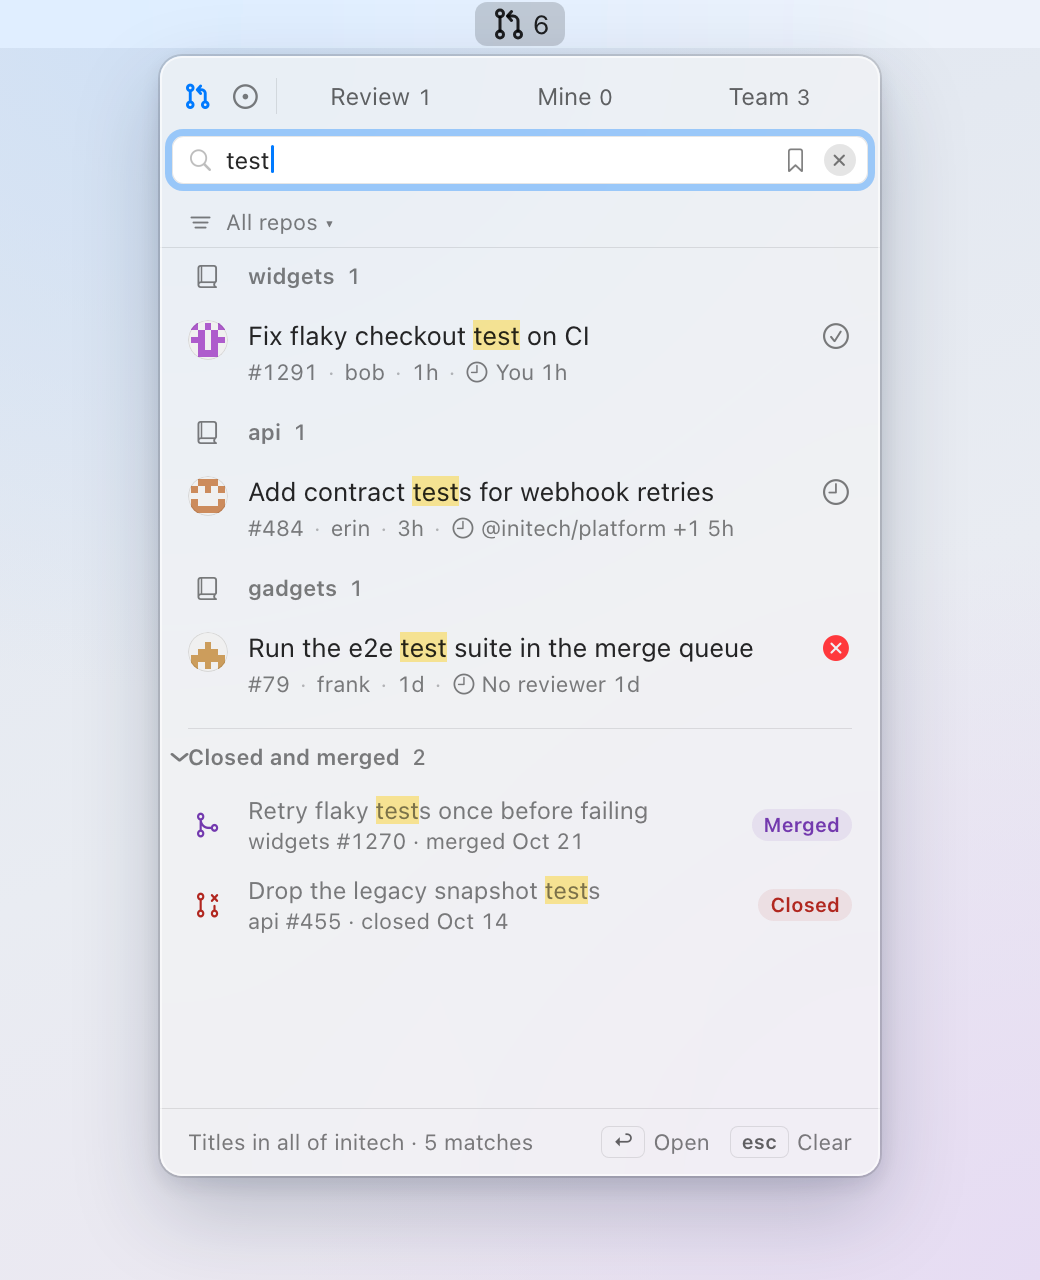
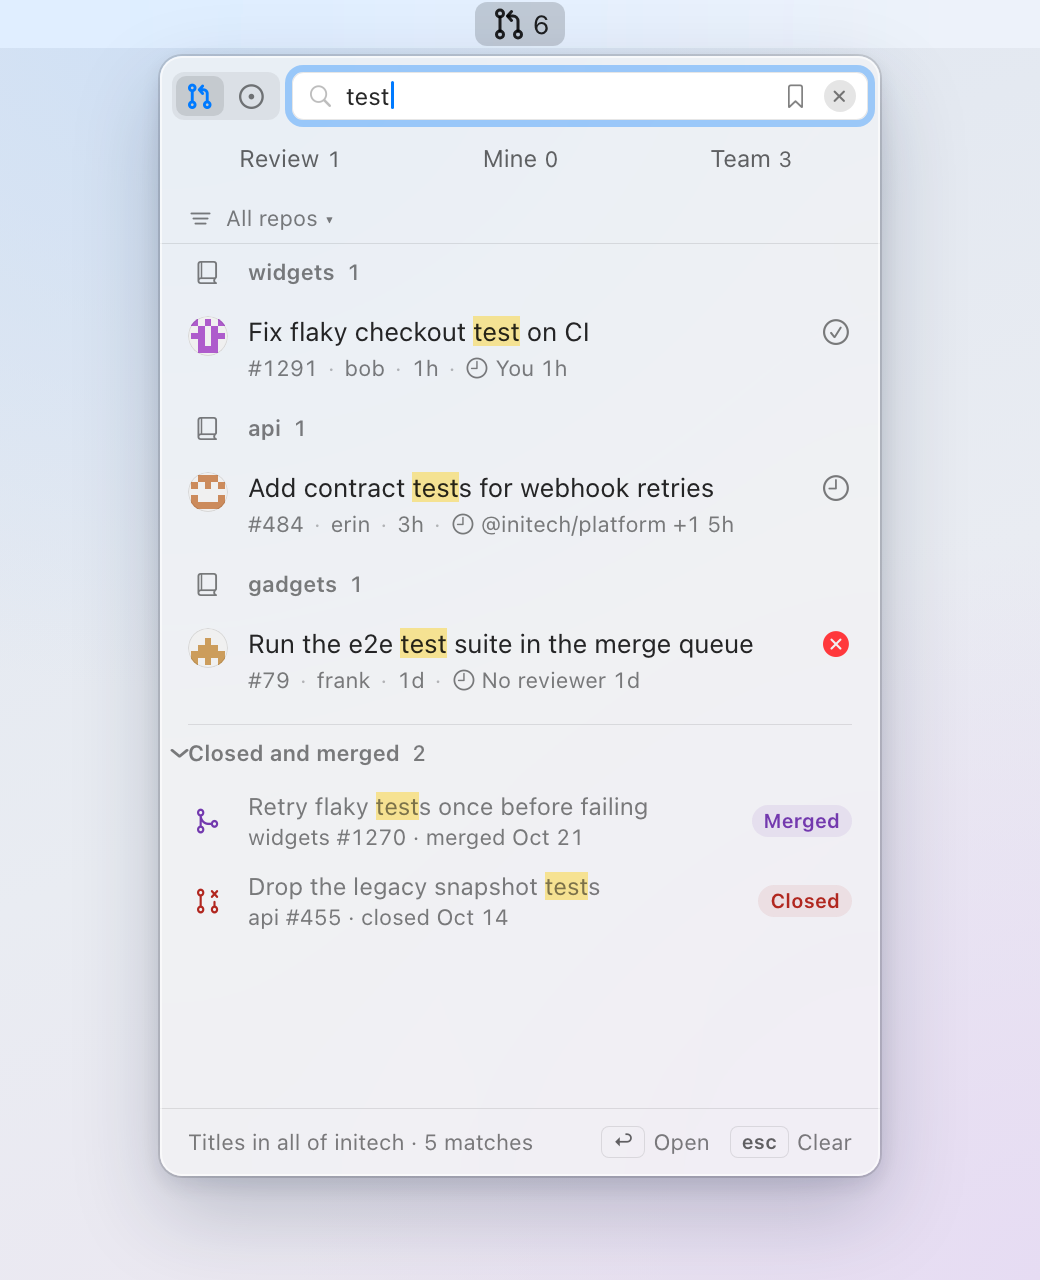
Move the mode switch into the search row (#45)
* Move the mode switch into the search row

The Pull Requests / Issues switch now sits on one track at the left of
the search field; the mode's tabs move to the row under it.

* Show the mode switch in the search row in the README stills

* Open the save-search row under the field, above the tabs

Moving the tabs under the search row had left the save row below them,
away from the bookmark that opens it. HeaderView now takes what opens
under the field. The spec records this and the track's hover fill.

---------

diff --git a/PullBull/Popover/ModeToggle.swift b/PullBull/Popover/ModeToggle.swift
@@ -1,11 +1,11 @@
 import SwiftUI
 import PullBullKit
 
-/// The Pull Requests / Issues switch at the start of the header: two free-standing icon buttons, the
-/// active one in the accent colour on an accent-tinted chip, so it reads without hue too (a Graphite
-/// accent, Differentiate Without Colour). It has no shared track, so it doesn't read as part of the tab
-/// bar; a hairline divider closes it off. The other mode's glyph carries a dot while it has something new
-/// for me (`ModeNews`).
+/// The Pull Requests / Issues switch at the start of the search row: two icon segments on one track, as
+/// tall as the field beside it, the active one in the accent colour on a tinted chip, so it reads without
+/// hue too (a Graphite accent, Differentiate Without Colour). The track groups the two icons and sets them
+/// apart from the field. The other mode's glyph carries a dot while it has something new for me
+/// (`ModeNews`).
 struct ModeToggle: View {
     @Bindable var model: AppModel
     /// Switches to the mode, as ⌘1 / ⌘2 do: a query in the field stays, an empty open field closes.
@@ -19,11 +19,9 @@ struct ModeToggle: View {
                     news: model.mode == mode ? nil : model.modeNews.note(mode)
                 ) { select(mode) }
             }
-            Hairline(axis: .vertical)
-                .frame(height: 18)
-                .padding(.leading, 2)
-                .accessibilityHidden(true)
         }
+        .padding(2)
+        .background(RoundedRectangle(cornerRadius: 6).fill(Palette.fill))
         .fixedSize()
         .accessibilityElement(children: .contain)
         .accessibilityLabel("Mode")
@@ -39,15 +37,15 @@ private struct ModeButton: View {
     @State private var hovering = false
     @Environment(\.colorSchemeContrast) private var contrast
 
-    /// The chip matches the tab bar's thumb: 22pt tall, the same corner radius.
-    private static let chip = RoundedRectangle(cornerRadius: 6)
+    /// 20pt tall inside the 24pt track; its radius nests inside the track's 6.
+    private static let chip = RoundedRectangle(cornerRadius: 5)
 
     var body: some View {
         Button(action: action) {
             Image(symbol: mode.symbol)
                 .font(.system(size: 13, weight: selected ? .semibold : .regular))
                 .foregroundStyle(selected ? AnyShapeStyle(Color.accentColor) : AnyShapeStyle(.secondary))
-                .frame(width: 24, height: 22)
+                .frame(width: 24, height: 20)
                 .background(Self.chip.fill(fill))
                 .overlay {
                     // Increase Contrast edges the chosen chip too.
@@ -74,7 +72,8 @@ private struct ModeButton: View {
 
     private var fill: Color {
         if selected { return Palette.selection }
-        return hovering ? Palette.fill : .clear
+        // The track is `Palette.fill`, so a hover takes the stronger fill to show on it.
+        return hovering ? Palette.strongFill : .clear
     }
 }
 

diff --git a/PullBull/Popover/HeaderView.swift b/PullBull/Popover/HeaderView.swift
@@ -2,9 +2,9 @@ import AppKit
 import SwiftUI
 import PullBullKit
 
-/// The header: the mode switch, tabs and settings, and under them the search field. Both rows stay put
-/// while searching; only the list below changes.
-struct HeaderView: View {
+/// The header: the mode switch and the search field in one row, the mode's tabs under them. Both rows
+/// stay put while searching; only the list below changes.
+struct HeaderView<UnderField: View>: View {
     let model: AppModel
     /// Results are on screen (`Route.search`).
     let searching: Bool
@@ -21,30 +21,41 @@ struct HeaderView: View {
     let onSwitchMode: (PopoverMode) -> Void
     /// The bookmark in the field: opens the save row under it.
     let onSaveSearch: () -> Void
+    /// What opens right under the field, above the tabs: the save row, next to the bookmark that opened it.
+    @ViewBuilder let underField: () -> UnderField
 
     var body: some View {
         VStack(spacing: 0) {
-            titleRow
             searchRow
+            underField()
+            tabRow
         }
     }
 
-    /// The mode switch, then the mode's tabs filling the width. While results are on screen
-    /// the tabs narrow them instead of showing their lists.
-    private var titleRow: some View {
-        HStack(spacing: 4) {
-            ModeToggle(model: model, select: onSwitchMode)
-            TabBar(model: model, searching: searching) {
-                if searchOpen { onCancelSearch() }
-            }
-            .frame(maxWidth: .infinity)
+    /// The mode's tabs filling the width. While results are on screen the tabs narrow them instead of
+    /// showing their lists.
+    private var tabRow: some View {
+        TabBar(model: model, searching: searching) {
+            if searchOpen { onCancelSearch() }
         }
-        .padding(.leading, 8)
-        .padding(.trailing, 8)
-        .frame(height: 40)
+        .frame(maxWidth: .infinity)
+        .padding(.horizontal, 8)
+        .padding(.bottom, 4)
     }
 
+    /// The mode switch, then the search field filling the rest of the row.
     private var searchRow: some View {
+        HStack(spacing: 6) {
+            ModeToggle(model: model, select: onSwitchMode)
+            searchField
+                .frame(maxWidth: .infinity)
+        }
+        .padding(.horizontal, Metrics.rowInset)
+        .padding(.top, 8)
+        .padding(.bottom, 6)
+    }
+
+    private var searchField: some View {
         HStack(spacing: 6) {
             Image(systemName: "magnifyingglass")
                 .font(.system(size: 11))
@@ -106,8 +117,6 @@ struct HeaderView: View {
                 .strokeBorder(Color.accentColor.opacity(0.35), lineWidth: 3.5)
                 .padding(-3.5)
                 .opacity(fieldFocused.wrappedValue ? 1 : 0))
-        .padding(.horizontal, Metrics.rowInset)
-        .padding(.bottom, 6)
     }
 
     /// Search follows the mode; the field's label reads the same.

diff --git a/docs/media/src/components.js b/docs/media/src/components.js
@@ -75,7 +75,7 @@
       const selected = mode === m;
       return `<span class="mode-button${selected ? " selected" : ""}">${sym(symbol, 13, selected ? "semibold" : "regular")}</span>`;
     };
-    return `<div class="hstack mode-toggle">${btn("pullRequests", "pullbull.pullrequest")}${btn("issues", "pullbull.issue")}<span class="hairline-v"></span></div>`;
+    return `<div class="hstack mode-toggle">${btn("pullRequests", "pullbull.pullrequest")}${btn("issues", "pullbull.issue")}</div>`;
   }
 
   function tabBar(tabs, selectedId) {
@@ -100,12 +100,13 @@
       ? `<span class="c-secondary" style="width:16px;height:16px;display:flex;align-items:center;justify-content:center">${sym("bookmark", 11)}</span>` +
         `<span class="c-secondary" style="width:16px;height:16px;border-radius:50%;background:var(--strong-fill);display:flex;align-items:center;justify-content:center">${sym("xmark", 7, "bold")}</span>`
       : (search && search.focused ? "" : `<span class="shortcut f11">⌘F</span>`);
-    return `<div class="search-row"><div class="hstack search-field${search && search.focused ? " focused" : ""}">` +
-      `<span class="c-tertiary hstack">${sym("magnifyingglass", 11)}</span>${text}${trailing}</div></div>`;
+    return `<div class="hstack search-field${search && search.focused ? " focused" : ""}">` +
+      `<span class="c-tertiary hstack">${sym("magnifyingglass", 11)}</span>${text}${trailing}</div>`;
   }
 
   function header(d) {
-    return `<div class="hstack title-row">${modeToggle(d.mode)}${tabBar(d.tabs, d.selectedTab)}</div>${searchField(d.search, d.mode)}`;
+    return `<div class="search-row">${modeToggle(d.mode)}${searchField(d.search, d.mode)}</div>` +
+      `<div class="tab-row">${tabBar(d.tabs, d.selectedTab)}</div>`;
   }
 
   /** FilterBar: "▦ Roadmap ▾ · ▤ All repos ▾" on the Board tab, "▤ All repos ▾" elsewhere. */

diff --git a/docs/media/src/popover.css b/docs/media/src/popover.css
@@ -222,13 +222,13 @@ body {
 
 /* ---------- Header (HeaderView) ---------- */
 
-.title-row { height: 40px; padding: 0 8px; gap: 4px; flex: none; }
+/* The mode's tabs, under the search row: inset 8, 4 below. */
+.tab-row { padding: 0 8px 4px; display: flex; flex: none; }
 
-/* ModeToggle: two 22×28 buttons, 2 apart, then a hairline 18 tall with 2 before it. */
-.mode-toggle { gap: 2px; flex: none; }
-.mode-button { width: 22px; height: 28px; display: flex; align-items: center; justify-content: center; color: var(--secondary); border-radius: 6px; }
-.mode-button.selected { color: var(--accent); }
-.mode-toggle .hairline-v { height: 18px; margin-left: 2px; }
+/* ModeToggle: two 24×20 segments, 2 apart, on a 24-tall track padded 2. */
+.mode-toggle { gap: 2px; flex: none; padding: 2px; border-radius: 6px; background: var(--fill); }
+.mode-button { width: 24px; height: 20px; display: flex; align-items: center; justify-content: center; color: var(--secondary); border-radius: 5px; }
+.mode-button.selected { color: var(--accent); background: var(--strong-fill); }
 
 /* TabBar: equal segments 2 apart, 22 tall, inside 2 pt of vertical padding. */
 .tab-bar { flex: 1 1 auto; padding: 2px 0; display: flex; gap: 2px; }
@@ -255,9 +255,11 @@ body {
 .segment .count { color: var(--secondary-text); }
 .segment.selected .count { color: var(--label); }
 
-/* Search field: 24 tall, inset 6 (Metrics.rowInset), 6 below. */
-.search-row { padding: 0 6px 6px; flex: none; }
+/* Search row: the mode switch, 6 apart from the field; 24 tall, inset 6 (Metrics.rowInset), 8 above, 6 below. */
+.search-row { padding: 8px 6px 6px; flex: none; display: flex; gap: 6px; align-items: center; }
 .search-field {
+  flex: 1 1 auto;
+  min-width: 0;
   position: relative;
   height: 24px;
   padding: 0 6px 0 8px;

diff --git a/PullBull/Popover/PopoverView.swift b/PullBull/Popover/PopoverView.swift
@@ -287,13 +287,17 @@ struct PopoverView: View {
             HeaderView(
                 model: model, searching: searchShown, searchOpen: searchOpen, fieldFocused: $fieldFocused,
                 ghostDrawn: $qualifierGhostDrawn, window: { [keyMonitor] in keyMonitor.window },
-                onCancelSearch: cancelSearch, onSwitchMode: switchMode(to:), onSaveSearch: openSaveRow)
-            if searchOpen, saveName != nil {
-                Hairline()
-                SaveSearchRow(
-                    name: Binding(get: { saveName ?? "" }, set: { saveName = $0 }), focused: $saveNameFocused,
-                    onSave: saveSearch, onCancel: closeSaveRow)
-                if filterRow != nil { Hairline() }
+                onCancelSearch: cancelSearch, onSwitchMode: switchMode(to:), onSaveSearch: openSaveRow
+            ) {
+                // The save row opens under the field, above the tabs, between two lines.
+                if searchOpen, saveName != nil {
+                    Hairline()
+                    SaveSearchRow(
+                        name: Binding(get: { saveName ?? "" }, set: { saveName = $0 }), focused: $saveNameFocused,
+                        onSave: saveSearch, onCancel: closeSaveRow)
+                    Hairline()
+                        .padding(.bottom, 4)
+                }
             }
             // One line between the header and the list: the filter row draws it when shown.
             if filterRow == nil { Hairline() }

diff --git a/docs/superpowers/specs/2026-11-03-sectioned-pr-list-design.md b/docs/superpowers/specs/2026-11-03-sectioned-pr-list-design.md
@@ -69,7 +69,10 @@ Mockups: https://claude.ai/artifact/EpgpsFBW6hyLMHocJFmdBC (2a is the chosen hea
   - the news dot on the other mode (`ModeNews`);
   - the help text and VoiceOver labels ("Pull requests ⌘1", "Issues ⌘2", plus the news note);
   - ⌘1 / ⌘2.
+- An unselected segment's hover takes `Palette.strongFill`. The track itself is `Palette.fill`, so the usual hover fill wouldn't show on it.
 - The search field fills the rest of the row. Its placeholder still follows the mode.
+- The save-search row (opened by the field's bookmark) opens directly under the search row and above the tabs, so it sits next to the bookmark that opened it.
+- The empty-field hints and search results still open below the tabs, which stay visible and narrow a search.
 - **Issues mode:** Assigned / Created / Board take the second row, where the PR chips sit, styled as today's tab bar. Their counts, stale-warning glyph and ←/→ behaviour don't change.
 
 ### Scope chips (Pull Requests mode)
